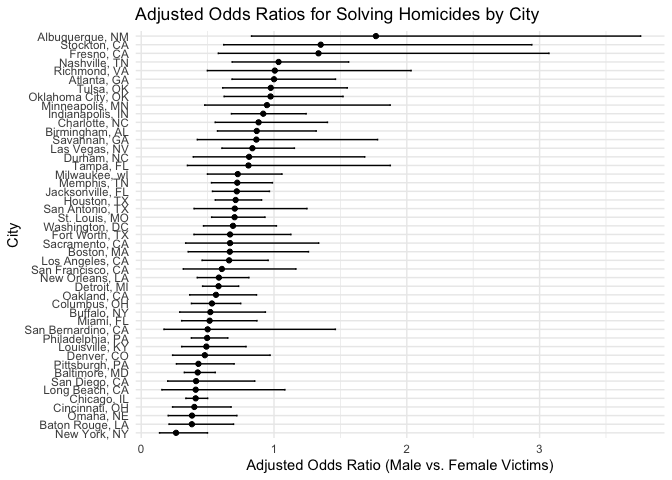
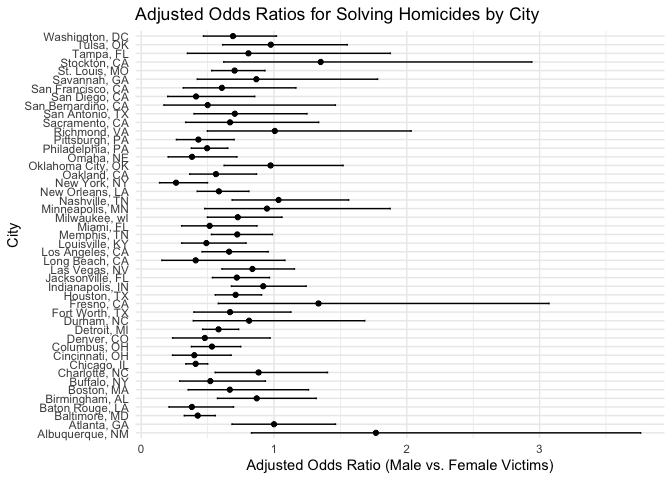
refinement of problem2

diff --git a/homework6.md b/homework6.md
@@ -158,9 +158,10 @@ homocide_data =
   )
 ```
 
-2.  Logistic Regression for Baltimore, MD use the `glm` function to fit
-    a logistic regression with resolved vs unresolved as the outcome and
-    victim age, sex and race as predictors.
+2.  Logistic Regression for Baltimore, MD  
+
+use the `glm` function to fit a logistic regression with resolved vs
+unresolved as the outcome and victim age, sex and race as predictors.
 
 ``` r
 baltimore_data =
@@ -175,6 +176,10 @@ baltimore_model = glm(
 saveRDS(baltimore_model, file = "model/baltimore_glm_model.rds")
 ```
 
+3.  For Baltimore,MD: obtain the estimate and confidence interval of the
+    adjusted odds ratio for solving homicides comparing male victims to
+    female victims keeping all other variables fixed.
+
 ``` r
 baltimore_loaded_model = readRDS("model/baltimore_glm_model.rds")
 
@@ -185,17 +190,15 @@ baltimore_or =
     OR = exp(estimate),
     CI_lower = exp(estimate - 1.96 * std.error),
     CI_upper = exp(estimate + 1.96 * std.error)
-  ) |>
-  knitr::kable(digits = 3)
+  )
 
-print(baltimore_or)
+baltimore_or |>
+  knitr::kable(digits = 3)
 ```
 
-    ## 
-    ## 
-    ## |term           | estimate| std.error| statistic| p.value|    OR| CI_lower| CI_upper|
-    ## |:--------------|--------:|---------:|---------:|-------:|-----:|--------:|--------:|
-    ## |victim_sexMale |   -0.204|     0.032|     -6.38|       0| 0.816|    0.766|    0.868|
+| term           | estimate | std.error | statistic | p.value |    OR | CI_lower | CI_upper |
+|:---------------|---------:|----------:|----------:|--------:|------:|---------:|---------:|
+| victim_sexMale |   -0.204 |     0.032 |     -6.38 |       0 | 0.816 |    0.766 |    0.868 |
 
 Logistic Regression for All Cities. run glm for each of the cities in
 your dataset, and extract the adjusted odds ratio (and CI) for solving
@@ -273,9 +276,13 @@ city_models |>
 | Tulsa, OK          | victim_sexMale | 0.976 |    0.614 |    1.552 |   0.917 |
 | Washington, DC     | victim_sexMale | 0.691 |    0.469 |    1.018 |   0.062 |
 
+visualize the results by plotting the ORs and confidence intervals for
+each city and organize cities according to estimated OR.
+
 ``` r
-city_models |> 
-  ggplot(aes(x = reorder(city_state, OR), y = OR)) +
+city_models |>
+  mutate(city_state = fct_reorder(city_state, OR)) |>
+  ggplot(aes(x = city_state, y = OR)) +
   geom_point() +
   geom_errorbar(aes(ymin = CI_lower, ymax = CI_upper), width = 0.2) +
   coord_flip() +
